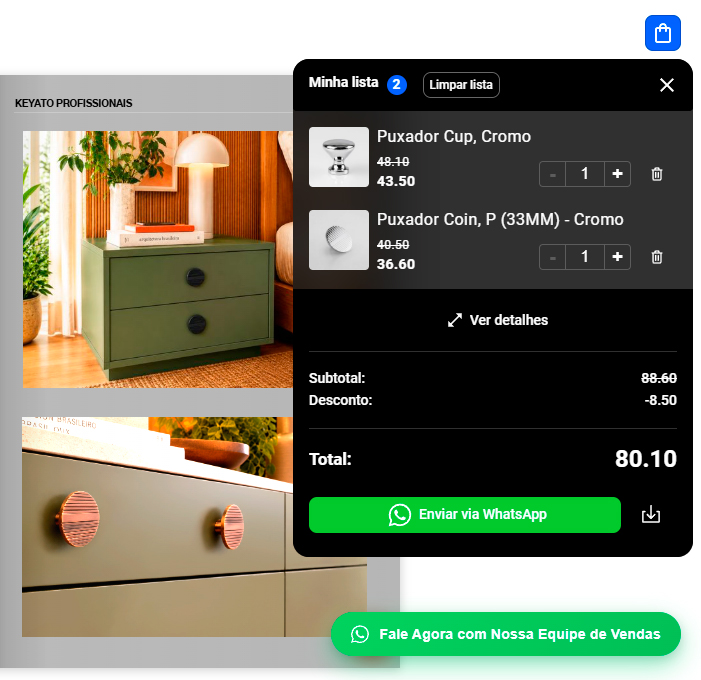
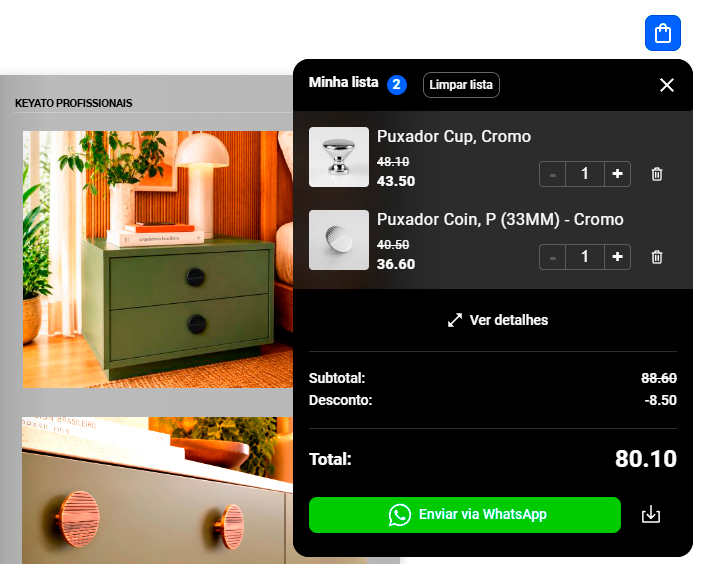
Add files via upload

diff --git a/como-comprar.html b/como-comprar.html
@@ -567,7 +567,7 @@
         <div class="finish-grid">
           <article class="finish-card reveal">
             <h3>Gerar orçamento em PDF</h3>
-            <p>Se deseja apenas formalizar um orçamento, clique no ícone de download ao lado do botão do WhatsApp e gere o PDF da sua lista.</p>
+            <p>Se deseja apenas formalizar um orçamento, clique no ícone de download ao lado do botão do WhatsApp e gere o PDF da sua lista de compra.</p>
             <div class="mini-preview">
               <img src="compra-passo-3.jpg" alt="Botão para baixar lista em PDF">
             </div>
@@ -577,7 +577,7 @@
             <h3>Enviar via WhatsApp</h3>
             <p>Para efetuar a compra, clique em <strong>Enviar via WhatsApp</strong>. Uma mensagem pronta será aberta para o time de vendas da Keyato Profissionais.</p>
             <div class="mini-preview">
-              <img src="compra-passo-3.jpg" alt="Botão Enviar via WhatsApp">
+              <img src="compra-passo-4.jpg" alt="Botão Enviar via WhatsApp">
             </div>
           </article>
         </div>